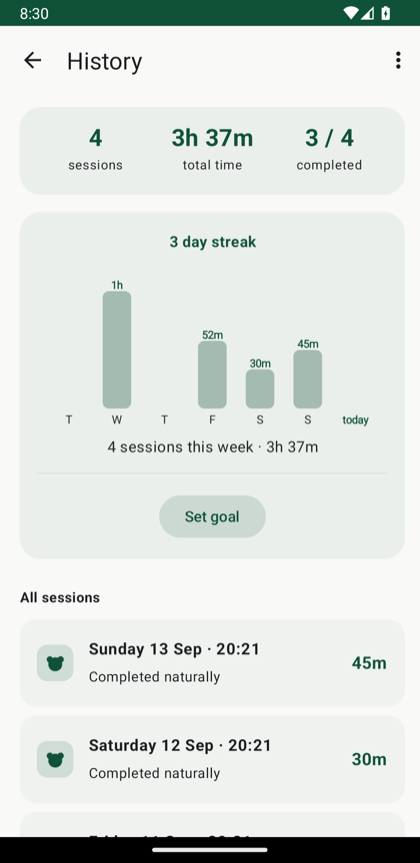
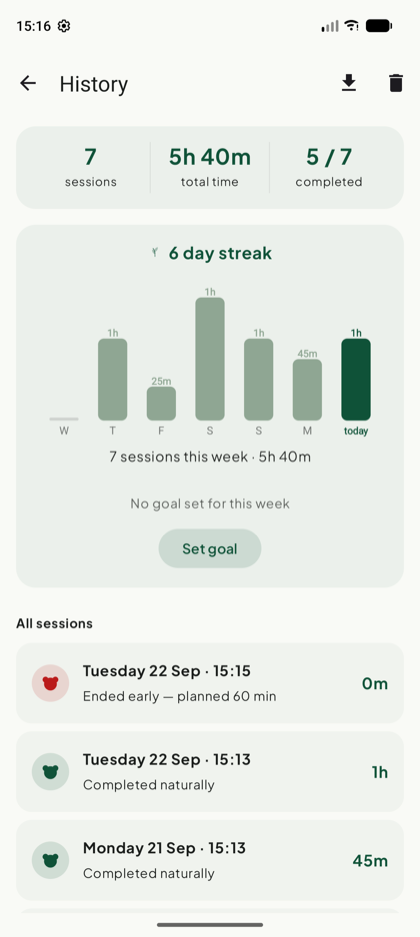
README: aggiornati screenshot e tono più marketing, meno tecnico
Nuovi screenshot presi sull'app rimessa a nuovo dopo il giro di fix di
questa sessione (flavor stable, non beta), al posto delle catture del
17 settembre ormai superate visivamente. Prosa di apertura, "How it
works", "Extra Allowed Apps", "Home App" e "Tempo Insieme" riscritte
con un tono più caldo e orientato al beneficio. "Known Limits" lasciata
intatta nella sostanza — l'onestà su quel blocco "soft" resta un
vincolo esplicito (vedi CLAUDE.md), non qualcosa da ammorbidire insieme
al resto. La sezione "For developers" resta tecnica com'era.

Claude-Session: https://claude.ai/code/session_01GfbQrVXzPm8vYqRv7sm1BW

diff --git a/README.md b/README.md
@@ -1,9 +1,9 @@
 # Calm Otter
 
-A native Android app that helps you put the phone down. Start a pause and
-every app except Phone is blocked and notifications go quiet — only the
-person who set the password can end it early. No account, no backend, no
-analytics: everything happens on the device.
+Put the phone down, on purpose. Calm Otter blocks every app but Phone and
+silences notifications for as long as you choose — and only the person who
+holds the password can end it early. No sign-up, no backend, no tracking:
+just you, your phone, and a bit of quiet.
 
 <p align="center">
   <img src="docs/screenshots/home.png" width="200" alt="Home screen with weekly streak" />
@@ -14,59 +14,55 @@ analytics: everything happens on the device.
 
 ## How it works
 
-1. **First run** — the other person (the "accountability partner") opens
-   the app and sets the password. It's saved as a PBKDF2-HMAC-SHA256 hash
+1. **Set a password** — you, or someone you trust to hold you accountable,
+   opens the app and sets it once. It's kept as a PBKDF2-HMAC-SHA256 hash
    with a random salt inside `EncryptedSharedPreferences`, encrypted via
-   Android Keystore — the plain-text password is never stored.
-2. **Grant permissions** (one-time) — Accessibility + Notification Policy
-   Access (Do Not Disturb).
-3. **Start a pause** — choose a duration and tap the otter. From that
-   moment: any app that isn't allowed gets covered by a full-screen block
-   with a countdown, Do Not Disturb silences notifications — phone calls,
-   alarms and whatever you're listening to still come through — and a
-   system alarm guarantees the session ends on time even if you never touch
+   Android Keystore — the actual password is never stored anywhere.
+2. **Grant two permissions** — Accessibility and Do Not Disturb access.
+   That's the whole setup, one time only.
+3. **Pick a duration and tap the otter.** Every app but Phone gets covered
+   by a calm full-screen countdown, notifications go quiet — calls, alarms
+   and whatever you're listening to still get through — and the pause is
+   backed by a system alarm, so it ends on time even if you never touch
    the phone again.
-4. **End the pause** — automatically when time is up, or earlier if the
-   correct password is entered on the block screen.
+4. **The pause ends itself** when time's up, or earlier if the right
+   password is entered on the block screen.
 
 ## Extra Allowed Apps
 
-Beyond the Phone app, you can allow a small list of other apps to stay
-usable during a pause — maps, a family group chat, whatever is
-non-negotiable. Managing that list requires the password, so only the
-accountability partner can add or remove apps.
+Not everything needs to wait. Keep a short list of apps that stay
+reachable during a pause — maps, a family chat, whatever is
+non-negotiable. Only the password holder can change that list, so it
+stays a deliberate exception, not a loophole.
 
 ## Home App
 
-Calm Otter can also be set as your phone's Home app. With that on, the
-Home button itself gets caught during an active session instead of just
-being another way to escape to app icons — closing the most obvious
-loophole in the block. It's optional and doesn't replace the
-Accessibility service; see "Known Limits" below for why neither one is
-airtight on its own.
+For an even quieter phone, set Calm Otter as your Home app. Now the Home
+button itself is part of the pause instead of a side door back to your
+app icons. It's optional, and it doesn't replace Accessibility — see
+"Known Limits" below for why the two work together rather than either
+one being enough alone.
 
 ## Tempo Insieme (Group Pause)
 
-Two or more people can start the *same* pause together, each on their own
-phone. From Home, "Time together" opens two roles, each with two ways to
-pair:
+Some pauses are better together. "Time together" lets two or more people
+start the *same* pause at the *same* moment, each on their own phone —
+made for a couple, a family, or a team that wants to disconnect as one:
 
-- **QR / manual code** — fully offline: the host generates a code (also
-  shown as a QR) that encodes the duration and an agreed start time; the
-  other person scans it or types it in. No live connection at any point —
-  the phones never talk to each other, they just start at the same
-  pre-agreed moment.
+- **QR / manual code** — fully offline. The host shares a code (or a QR)
+  with the duration and an agreed start time baked in; everyone else
+  scans or types it in. The phones never actually talk to each other —
+  they just agree in advance and start together.
 - **Live lobby (Bluetooth, with NFC as a shortcut)** — the host opens a
-  live lobby; the other person either taps their phone against the host's
-  (NFC) or searches for it manually, then the host starts once at least
-  one person has joined. The phones briefly connect only to agree on when
-  to start — the connection ends the moment the pause itself begins.
+  lobby, everyone else joins with a tap (NFC) or a quick search, and the
+  host starts once people are in. The phones connect just long enough to
+  agree on a start time, then disconnect the moment the pause begins.
 
-This is why the app asks for a few extra permissions beyond
-Accessibility/Do Not Disturb: **Camera** (to scan a QR) and
-**Bluetooth + NFC** (for the live lobby). None of them enable any network
-call or data collection — everything stays between the two phones
-involved, or doesn't leave the device at all in the QR/code case.
+That's why Calm Otter asks for a couple of extra permissions here —
+**Camera** to scan a QR, **Bluetooth + NFC** for the live lobby — and
+why it's worth saying plainly: none of it goes anywhere. No network
+calls, no data collection. It stays between the phones in the room, or
+never leaves the device at all in the QR/code case.
 
 ## Known Limits of this version ("soft" block)
 
